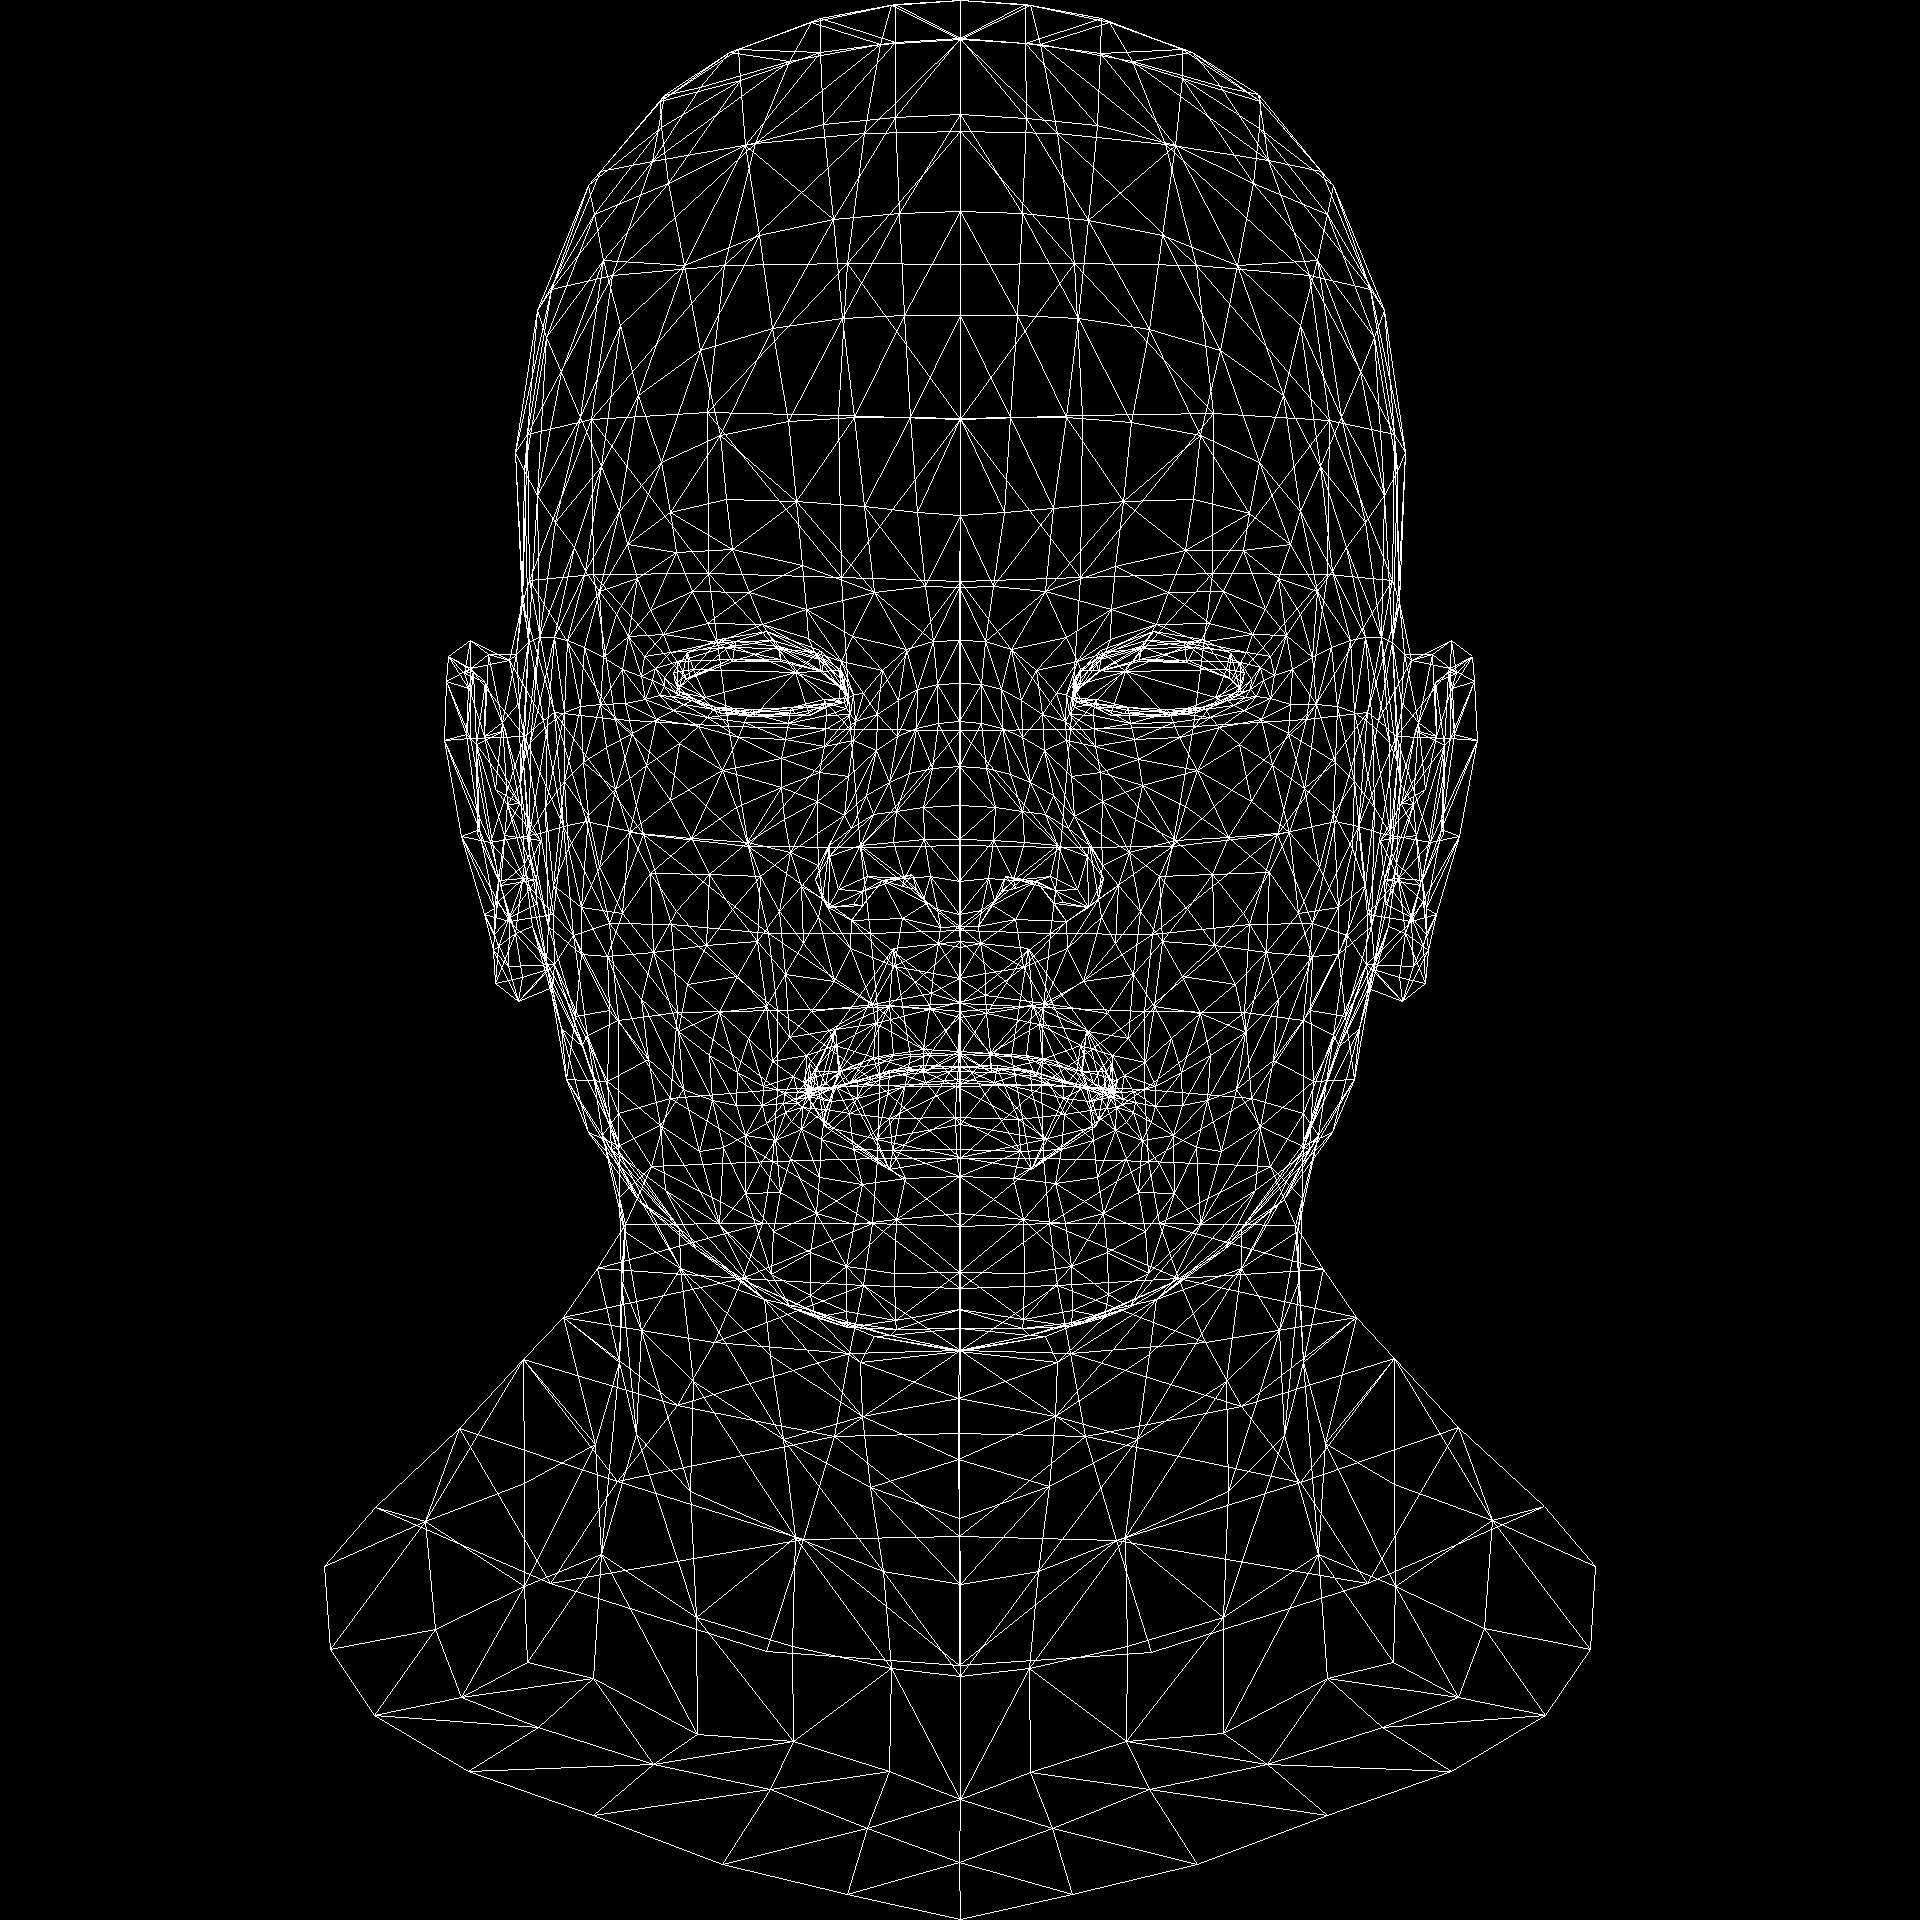
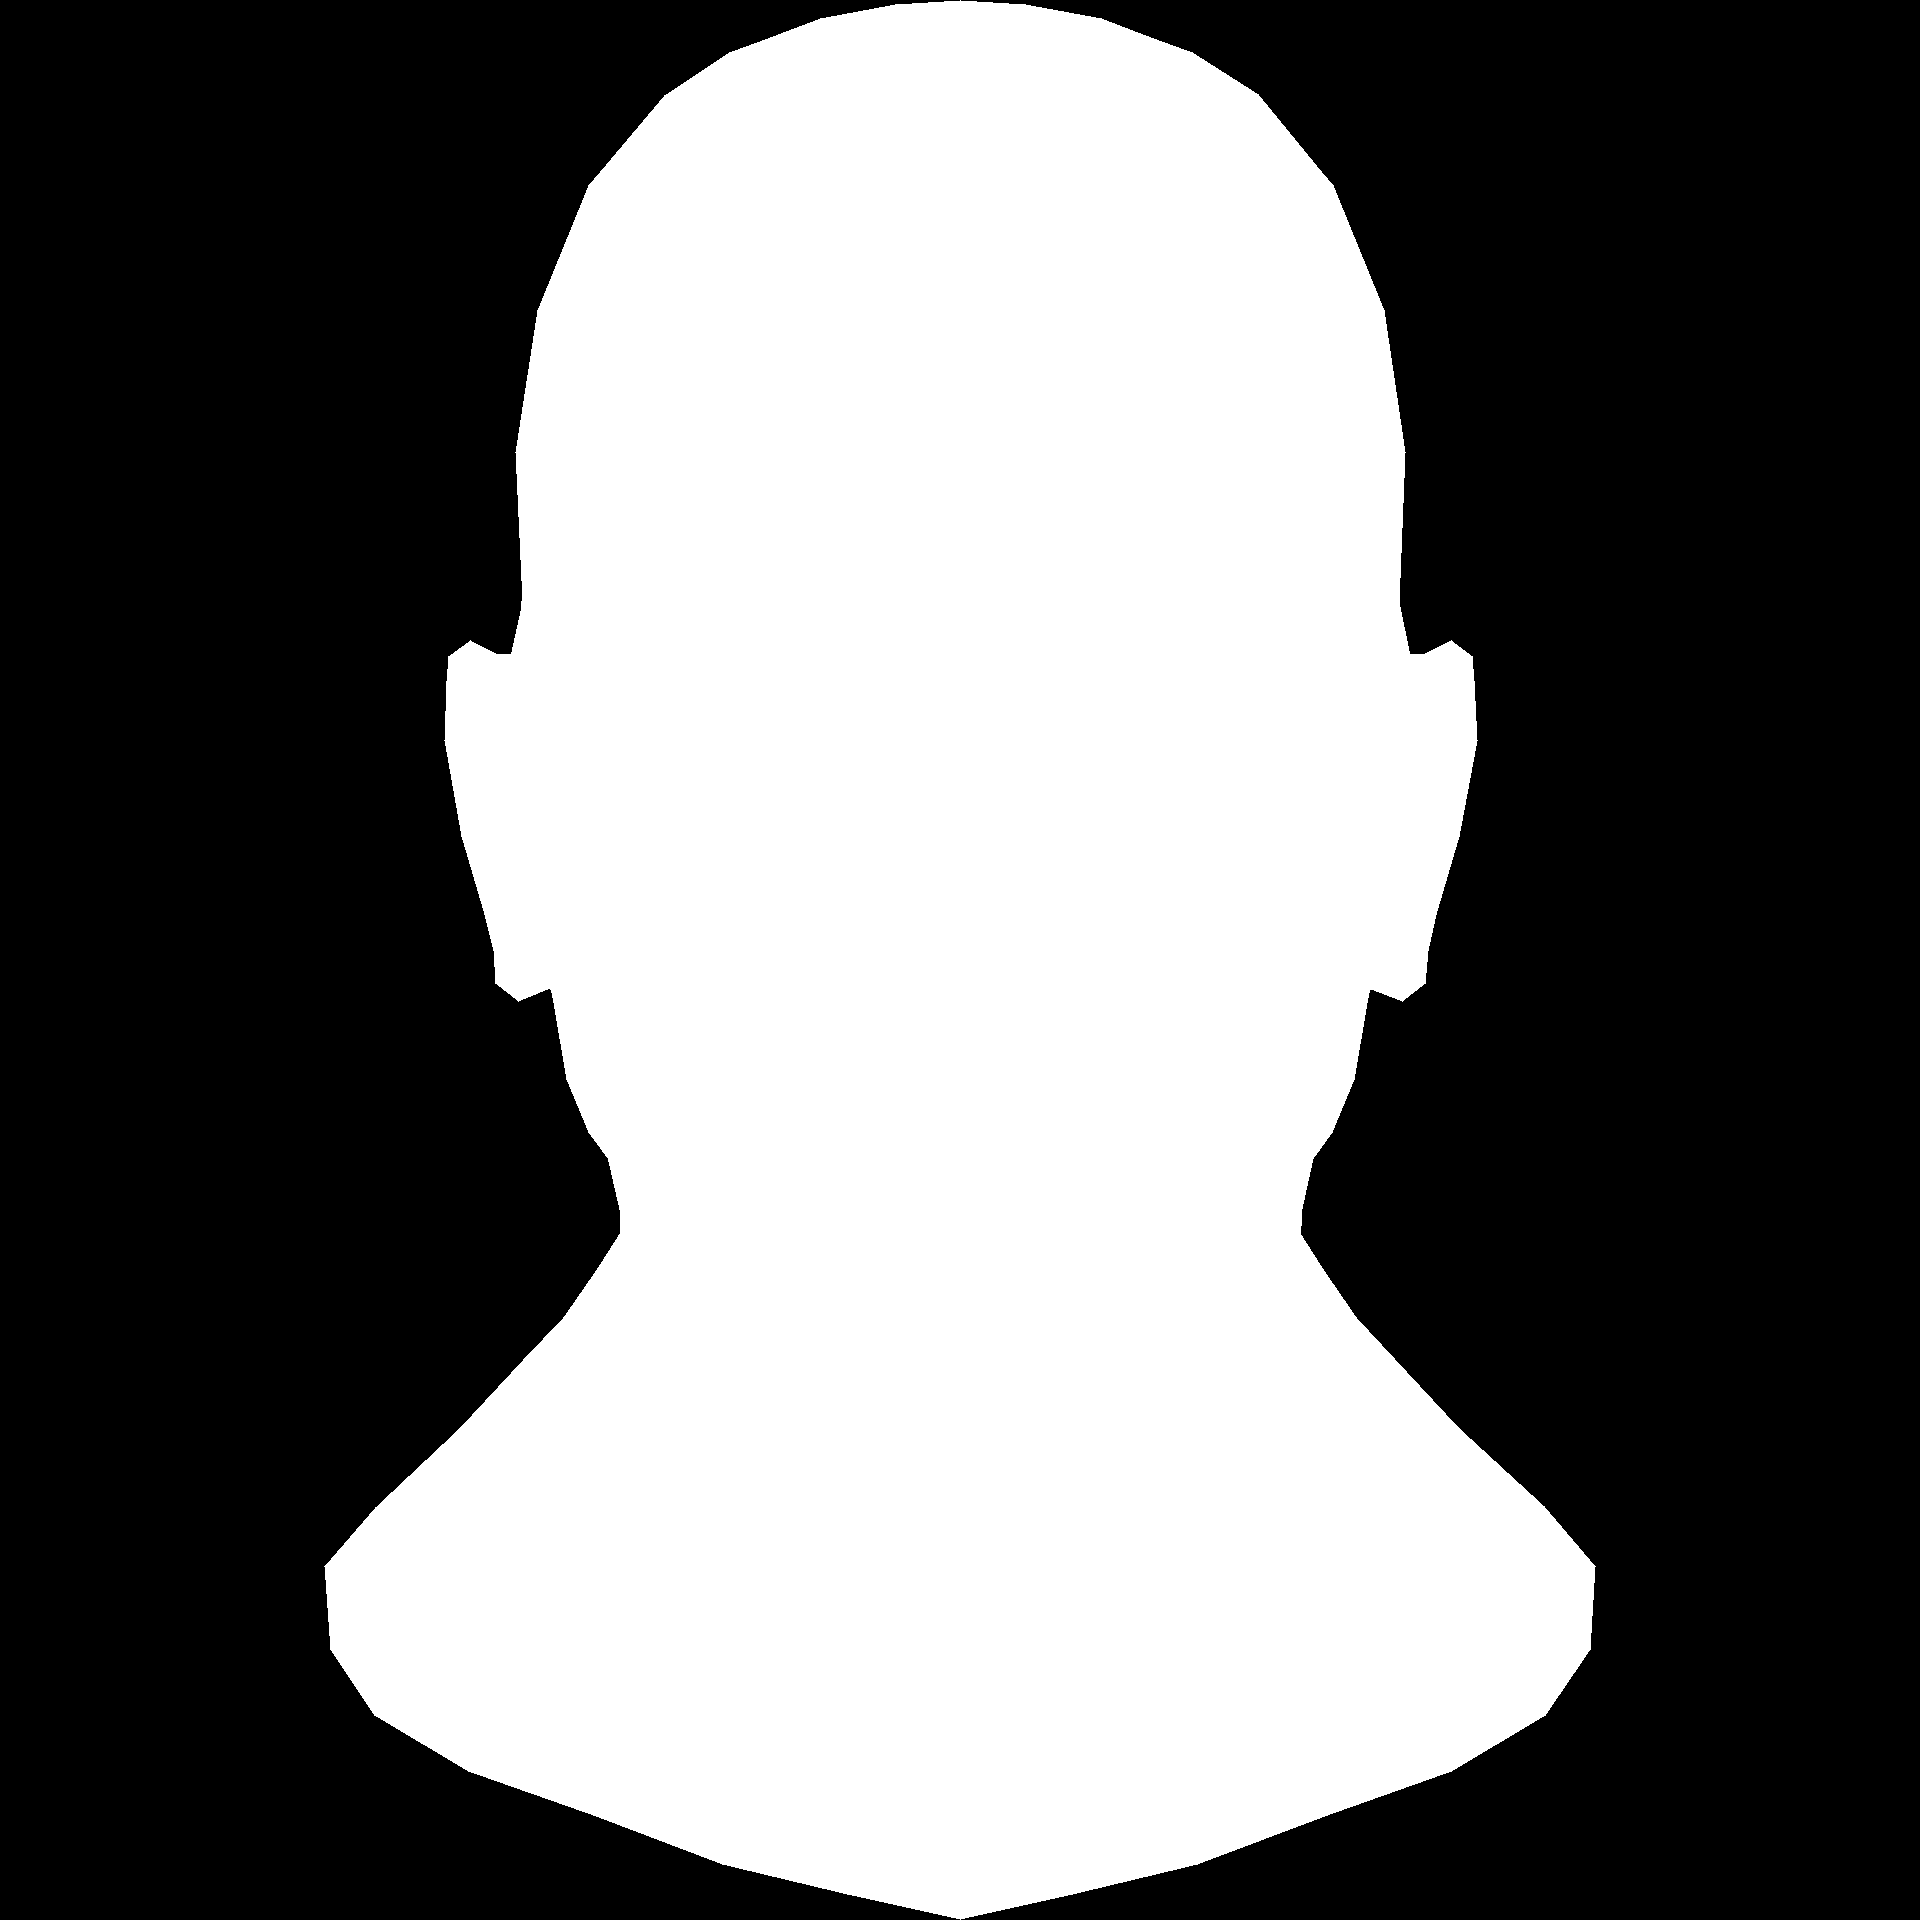
Draw filled triangles

diff --git a/src/lib.rs b/src/lib.rs
@@ -1,61 +1,31 @@
 pub mod wavefront;
 
-use image::RgbImage;
+use image::{Rgb, RgbImage};
 use wavefront::WavefrontObject;
 
-pub fn draw_triangle(image: &mut RgbImage, triangle: &Triangle, color: [u8; 3]) {
-    let (x0, y0) = triangle.0;
-    let (x1, y1) = triangle.1;
-    let (x2, y2) = triangle.2;
+fn draw_triangle(image: &mut RgbImage, triangle: &Triangle, color: [u8; 3]) {
+    let ((x0, y0), (x1, y1)) = get_bounding_box(triangle);
 
-    draw_line(image, (x0, y0), (x1, y1), color);
-    draw_line(image, (x1, y1), (x2, y2), color);
-    draw_line(image, (x2, y2), (x0, y0), color);
-}
-
-pub fn draw_line(image: &mut RgbImage, start: (u32, u32), end: (u32, u32), color: [u8; 3]) {
-    let (mut x0, mut y0) = start;
-    let (mut x1, mut y1) = end;
-
-    let mut steep = false;
-
-    if x0.abs_diff(x1) < y0.abs_diff(y1) {
-        (x0, y0) = (y0, x0);
-        (x1, y1) = (y1, x1);
-        steep = true;
-    }
-
-    if x0 > x1 {
-        (x0, x1) = (x1, x0);
-        (y0, y1) = (y1, y0);
-    }
-
-    let (dx, dy) = (x0.abs_diff(x1), y0.abs_diff(y1));
-    let derror2 = dy * 2;
-    let mut error2: i32 = 0;
-
-    let mut y = y0;
-
-    for x in x0..x1 {
-        if steep {
-            image.put_pixel(y, x, image::Rgb(color));
-        } else {
-            image.put_pixel(x, y, image::Rgb(color));
-        }
-
-        error2 += derror2 as i32;
-        if error2 > dx as i32 {
-            if y1 > y0 {
-                y += 1
-            } else {
-                y -= 1
-            };
-            error2 -= dx as i32 * 2;
+    for x in x0..=x1 {
+        for y in y0..=y1 {
+            if triangle.contains((x, y)) {
+                image.put_pixel(x, y, Rgb(color));
+            }
         }
     }
 }
 
-pub fn map_xy_to_image((x, y): (f32, f32), img: &RgbImage) -> (u32, u32) {
+fn get_bounding_box(triangle: &Triangle) -> ((u32, u32), (u32, u32)) {
+    let x_min = triangle.a.0.min(triangle.b.0.min(triangle.c.0));
+    let x_max = triangle.a.0.max(triangle.b.0.max(triangle.c.0));
+
+    let y_min = triangle.a.1.min(triangle.b.1.min(triangle.c.1));
+    let y_max = triangle.a.1.max(triangle.b.1.max(triangle.c.1));
+
+    ((x_min, y_min), (x_max, y_max))
+}
+
+fn map_xy_to_image((x, y): (f32, f32), img: &RgbImage) -> (u32, u32) {
     let (x, y) = ((x + 1.0) / 2.0, (y + 1.0) / 2.0);
     let dim = img.dimensions();
     let (x, y) = (x * dim.0 as f32, y * dim.1 as f32);
@@ -86,10 +56,32 @@ pub fn draw_object(object: WavefrontObject, img: &mut RgbImage) {
 }
 
 #[derive(Default, Debug)]
-pub struct Triangle((u32, u32), (u32, u32), (u32, u32));
+pub struct Triangle {
+    a: (u32, u32),
+    b: (u32, u32),
+    c: (u32, u32),
+}
 
 impl Triangle {
     pub fn new(a: (u32, u32), b: (u32, u32), c: (u32, u32)) -> Self {
-        Self(a, b, c)
+        Self { a, b, c }
+    }
+
+    pub fn contains(&self, (x, y): (u32, u32)) -> bool {
+        let p1 = (self.a.0 as f32, self.a.1 as f32);
+        let p2 = (self.b.0 as f32, self.b.1 as f32);
+        let p3 = (self.c.0 as f32, self.c.1 as f32);
+        let x = x as f32;
+        let y = y as f32;
+
+        let area_triangle =
+            0.5 * (-p2.1 * p3.0 + p1.1 * (p3.0 - p2.0) + p1.0 * (p2.1 - p3.1) + p2.0 * p3.1);
+
+        let s = 1.0 / (2.0 * area_triangle)
+            * (p1.1 * p3.0 - p1.0 * p3.1 + (p3.1 - p1.1) * x + (p1.0 - p3.0) * y);
+        let t = 1.0 / (2.0 * area_triangle)
+            * (p1.0 * p2.1 - p1.1 * p2.0 + (p1.1 - p2.1) * x + (p2.0 - p1.0) * y);
+
+        s >= 0.0 && t >= 0.0 && s + t <= 1.0
     }
 }
